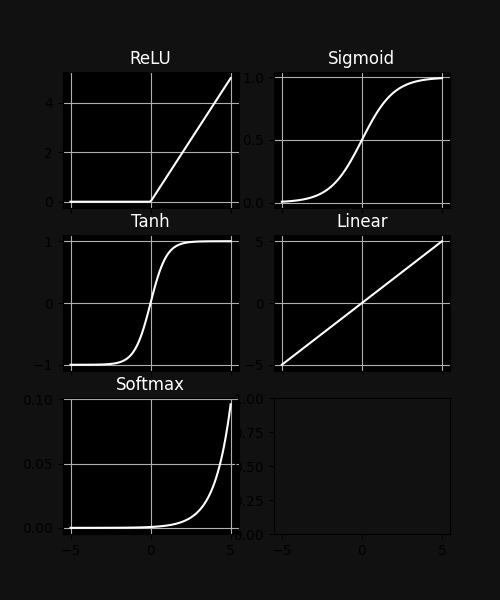
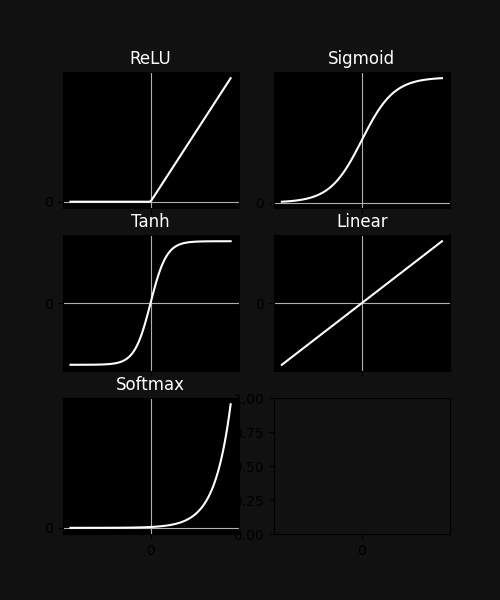
ReadMe DataClass part updated

diff --git a/DataClass.py b/DataClass.py
@@ -72,8 +72,8 @@ class Data():
 
     def CreateBatches(self, batchSize = 1):
 
-        self.trainBatches = np.array([self.trainDataArray[i * batchSize : (i + 1) * batchSize] for i in range(int(len(self.trainDataArray)/batchSize)+1)] , dtype=object)
-        self.testBatches = np.array([self.testDataArray[i * batchSize : (i + 1) * batchSize] for i in range(int(len(self.testDataArray)/batchSize)+1)] , dtype=object)
+        self.trainBatches = np.array([self.trainDataArray[i * batchSize : (i + 1) * batchSize] for i in range(int(len(self.trainDataArray)/batchSize))] , dtype=object)
+        self.testBatches = np.array([self.testDataArray[i * batchSize : (i + 1) * batchSize] for i in range(int(len(self.testDataArray)/batchSize))] , dtype=object)
 
     def GiveNextBatch(self, Test = False):
         if Test:
@@ -100,3 +100,25 @@ class Data():
 
         self.currentTrainBatchId = 0
         self.currentTestBatchId = 0
+
+if __name__ == "__main__":
+
+    '''the follwing dataArray has no meaning'''
+    dataArray = np.random.uniform(size = (10,5))
+    dataArray[:,0] = [1,6,7,5,8,4,5,5,9,0]
+
+    data = Data(dataArray=dataArray,labelEndsAt=0,trainDataSize=0.6,shuffle=True) #trainDataSize must be between 0 and 1
+
+    print('Train Data Generated \n',data.trainDataArray, end ='\n\n')
+    print('Test Data Generated \n',data.testDataArray, end ='\n\n')
+
+    data.CreateBatches(batchSize=2)
+
+    print('Train Batches \n', data.trainBatches , end = '\n\n')
+    print('Test Batches \n', data.testBatches , end = '\n\n')
+
+    print('first batch :')
+    print('labels :\n' ,data.GiveNextBatch()[0] , end = '\n\n')
+    print('data :\n' ,data.GiveNextBatch()[1] , end = '\n\n')
+
+    # data.ResetOrder() #can be used to reset the GiveNextBatch function

diff --git a/ActivationFunctions.py b/ActivationFunctions.py
@@ -55,9 +55,11 @@ if __name__ == '__main__':
     for func in funx:
 
         ax[j][i].set_facecolor('#000000')
+        ax[j][i].set_yticks([-10,0,10])
+        ax[j][i].set_xticks([-10,0,10])
         ax[j][i].plot(xs,func(xs),c='w')
         ax[j][i].set_title(func.__name__ , c='w')
-        ax[j][i].grid(True)
+        ax[j][i].grid(True,which = 'major')
 
         i += 1
 

diff --git a/tempCodeRunnerFile.py b/tempCodeRunnerFile.py
@@ -1,0 +1,1 @@
+\n

diff --git a/README.md b/README.md
@@ -63,3 +63,79 @@ def ReLU(vec, deriv = False):
 
 This is a module for ordering and batch division of data arrays
 
+Data Class takes a data Array and relevant indexing info to split into train and test sets
+
+the above sets can be further split into batches of desired sizes using the above sets can be further split into batches of desired sizes using 
+>CreateBatches(batchSize)
+
+Example code:
+
+```python
+
+'''the follwing dataArray has no meaning'''
+dataArray = np.random.uniform(size = (10,5))
+dataArray[:,0] = [1,6,7,5,8,4,5,5,9,0]
+
+data = Data(dataArray=dataArray,labelEndsAt=0,trainDataSize=0.6,shuffle=True) #trainDataSize must be between 0 and 1
+
+print('Train Data Generated \n',data.trainDataArray, end ='\n\n')
+print('Test Data Generated \n',data.testDataArray, end ='\n\n')
+
+data.CreateBatches(batchSize=2)
+
+print('Train Batches \n', data.trainBatches , end = '\n\n')
+print('Test Batches \n', data.testBatches , end = '\n\n')
+
+print('first batch :')
+print('labels :\n' ,data.GiveNextBatch()[0] , end = '\n\n')
+print('data :\n' ,data.GiveNextBatch()[1] , end = '\n\n')
+
+# data.ResetOrder() #can be used to reset the GiveNextBatch function
+
+```
+
+output
+
+```python
+Train Data Generated 
+ [[4.         0.94691028 0.87898346 0.98097621 0.03783457]
+  [6.         0.22667993 0.42951624 0.14455688 0.36658615]
+  [5.         0.75521519 0.66264689 0.61813888 0.79727888]
+  [0.         0.16869787 0.80049103 0.21502784 0.80444513]
+  [1.         0.67394877 0.47852584 0.44649136 0.90967487]
+  [8.         0.48133817 0.8844222  0.67705103 0.11116891]]
+
+Test Data Generated 
+ [[5.         0.47778123 0.38568351 0.30395304 0.40003714]
+  [5.         0.13728685 0.95202279 0.83334651 0.29789569]
+  [9.         0.13192928 0.2998153  0.36848944 0.80302551]
+  [7.         0.92258828 0.07519145 0.96942291 0.44979878]]
+
+Train Batches
+ [[[4.0 0.9469102848470978 0.8789834610759302 0.9809762104167429 0.037834567636730765]
+  [6.0 0.22667993299872868 0.42951623964049956 0.14455687913914994 0.36658615491844315]]
+
+ [[5.0 0.755215192898754 0.6626468852612433 0.618138875215323 0.7972788764797927]
+  [0.0 0.16869786560468758 0.8004910266279224 0.21502783576899043 0.8044451310200283]]
+
+ [[1.0 0.6739487695611365 0.47852583652593517 0.4464913608627681 0.9096748738860593]
+  [8.0 0.4813381743269095 0.884422202649031 0.6770510341745678 0.11116890548192238]]]
+
+Test Batches
+ [[[5.0 0.47778123252853655 0.3856835114672189 0.30395304369453924 0.40003714344133623]
+  [5.0 0.13728684822320458 0.9520227945295754 0.8333465063683319 0.2978956872370164]]
+
+ [[9.0 0.13192928209301402 0.29981530351154817 0.36848944157475694 0.8030255106792298]
+  [7.0 0.9225882818196238 0.0751914530418627 0.969422909375115 0.4497987825521833]]]
+
+first batch :
+labels :
+ [[4.0]
+ [6.0]]
+
+data :
+ [[0.755215192898754 0.6626468852612433 0.618138875215323 0.7972788764797927]
+ [0.16869786560468758 0.8004910266279224 0.21502783576899043 0.8044451310200283]]
+  ```
+
+To be added : csv, tsv and json data array input compatibility
